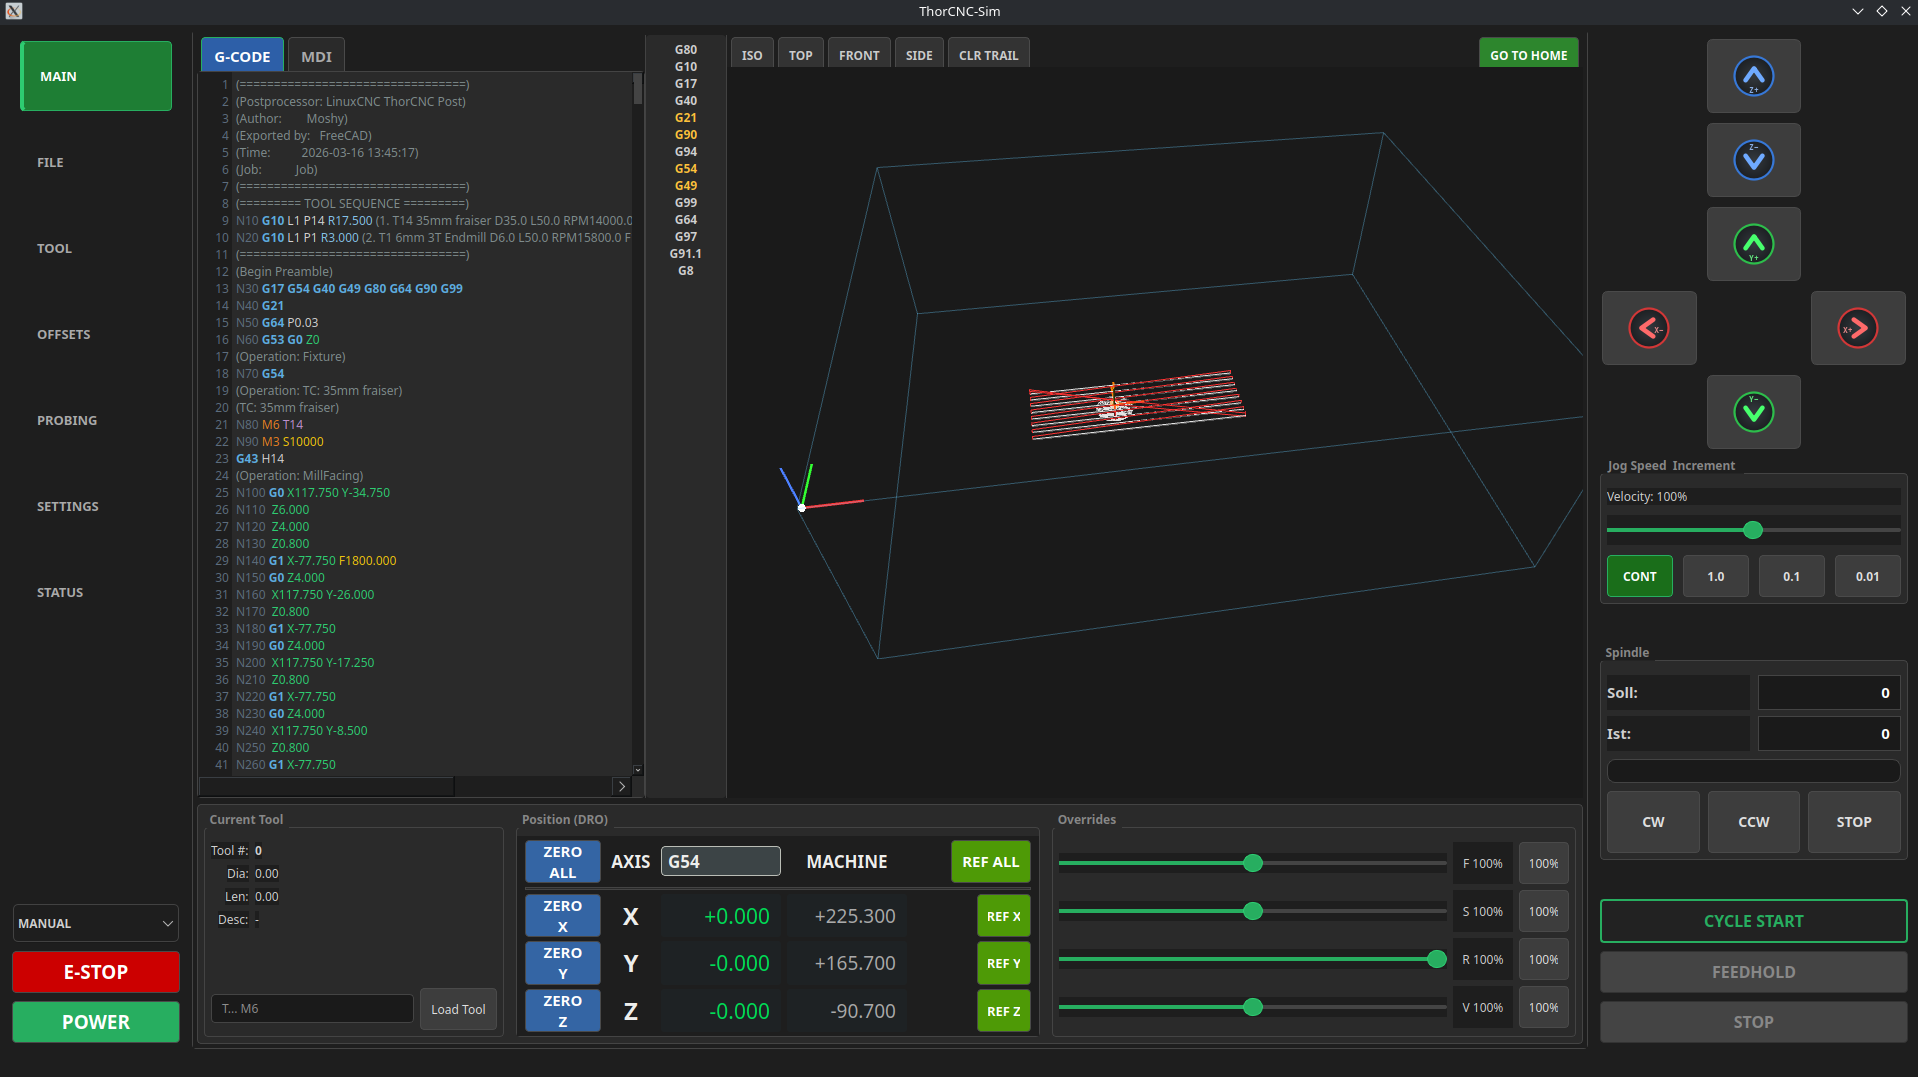
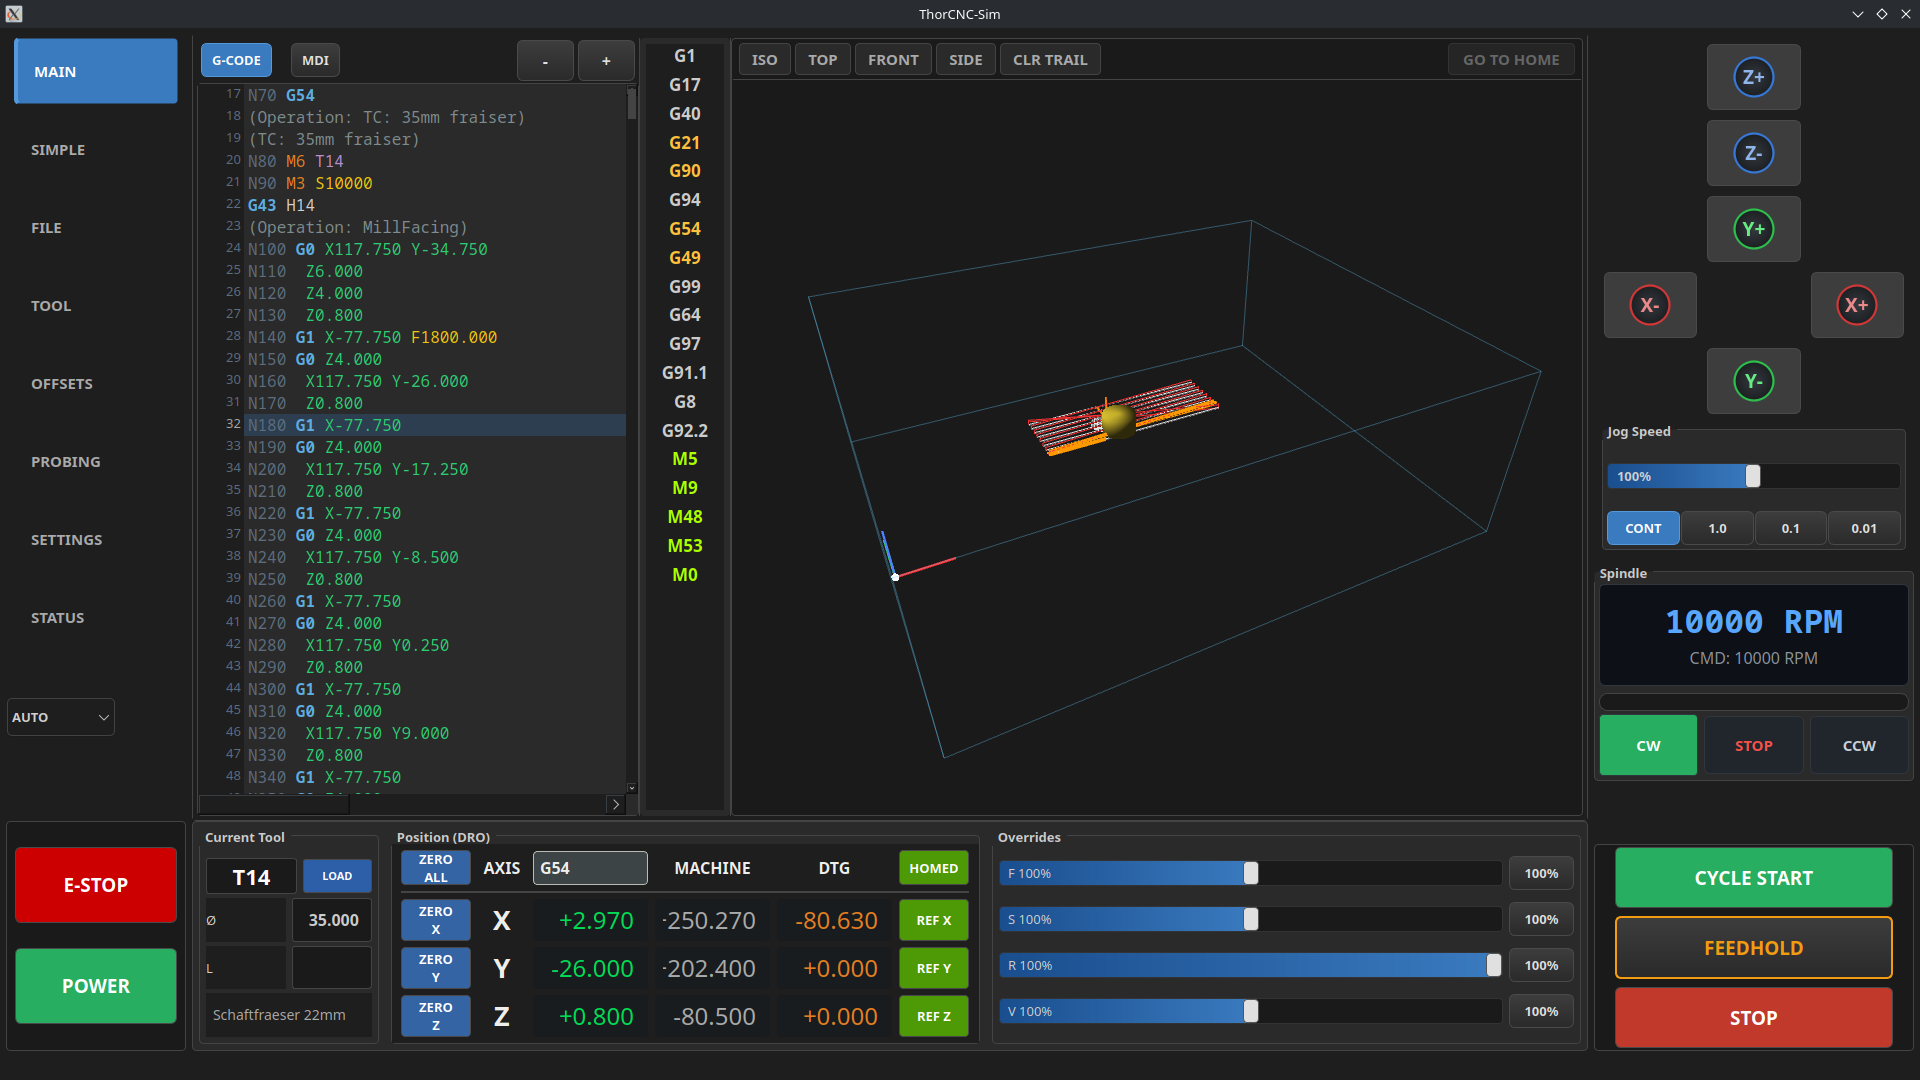
feat: add industrial M6 tool change dialog and update documentation with new features and configuration settings

diff --git a/README.md b/README.md
@@ -18,29 +18,33 @@ A modern LinuxCNC graphical interface (VCP) for 3-axis milling machines, built w
 ---
 
 ![ThorCNC Screenshot](thorcnc/images/screen_main.png)
+![Tool Change Dialog](thorcnc/images/screen_toolchange.png)
 
 ---
 
 ## Features
 
-- **3D Backplot** — OpenGL-accelerated toolpath visualization via pyqtgraph, with real-time tool position, live trail, and machine envelope display
+- **Industrial M6 Dialog** — Premium, touch-optimized manual tool change interface with automatic tool data lookup (Comment, Diameter, Offset).
+- **Smart Spindle Load** — Real-time load bar with dynamic color feedback (Green: 0-60%, Yellow: 60-80%, Red: >80%).
+- **3D Backplot** — OpenGL-accelerated toolpath visualization via pyqtgraph, with real-time tool position, live trail, and machine envelope display.
   - View presets: ISO, TOP, FRONT, SIDE
   - Clear trail button in toolbar
   - Mouse: left drag = orbit, middle drag = pan, Ctrl+middle drag = zoom
-- **GO TO HOME** — Toolbar button with color feedback: red = not homed / machine off, green = homed + machine on, gray = AUTO mode
-- **Machine Mode** — Combobox in the left panel to switch between MANUAL / AUTO / MDI
-- **G-Code / MDI Panel** — Toggle between G-code viewer and MDI input with persistent command history (last 50 entries, no consecutive duplicates)
-- **DRO** — Digital readout for work (G54–G59.3) and machine coordinates, with per-axis zero and reference buttons
-- **OFFSETS Tab** — Full WCS table (G54–G59.3) with X/Y/Z values read live from the `.var` file, plus per-row CLEAR button (sends `G10 L2`)
-- **Tool Table** — Editable tool table with diameter and length, live-updated after M6 tool changes
-- **M6 Remap support** — Integrates with custom NGC tool-measurement routines; automatic tool geometry update in backplot after probing
-- **Spindle control** — Forward/reverse/stop, speed and override display, load indicator
-- **Jog panel** — Continuous and incremental jog for X/Y/Z with configurable velocity and step sizes
-- **HAL integration** — Reads and writes HAL pins directly; compatible with standard LinuxCNC HAL components
-- **WCS selector** — Quick switch between G54–G59.3 via dropdown in the DRO panel
-- **Simulation support** — Works with LinuxCNC sim configurations; no real hardware required for development
-- **Settings** — Four sub-tabs: Toolsetter, UI (live theme + language switching), Maschine, Erweitert
-- **Themes** — Dark (default), light, dark_green, dark_orange — switchable at runtime
+- **GO TO HOME** — Toolbar button with color feedback: red = not homed / machine off, green = homed + machine on, gray = AUTO mode.
+- **Machine Mode** — Combobox in the left panel to switch between MANUAL / AUTO / MDI.
+- **G-Code / MDI Panel** — Toggle between G-code viewer and MDI input with persistent command history.
+- **DRO** — Digital readout for work (G54–G59.3) and machine coordinates, with per-axis zero and reference buttons.
+- **OFFSETS Tab** — Full WCS table (G54–G59.3) with X/Y/Z values read live from the `.var` file.
+- **Tool Table** — Editable tool table with diameter and length, live-updated after M6 tool changes.
+- **M6 Remap Support** — Full integration with custom NGC measurement routines and ThorCNC's own manual fallback dialog.
+- **Spindle Control** — Forward/reverse/stop, speed and override display, load indicator.
+- **Jog Panel** — Continuous and incremental jog for X/Y/Z with configurable velocity and step sizes.
+- **HAL Integration** — Reads and writes HAL pins directly; compatible with standard LinuxCNC HAL components.
+- **INI-Driven Defaults** — Automatically synchronizes spindle start speeds, increments, and file paths.
+- **Splash Screen** — Support for custom industrial startup graphics via `INTRO_GRAPHIC` and `INTRO_TIME`.
+- **WCS Selector** — Quick switch between G54–G59.3 via dropdown in the DRO panel.
+- **Settings** — Four sub-tabs: Toolsetter, UI (live theme + language switching), Maschine, Erweitert.
+- **Themes** — Dark (default), light, dark_green, dark_orange — switchable at runtime.
 
 ---
 
